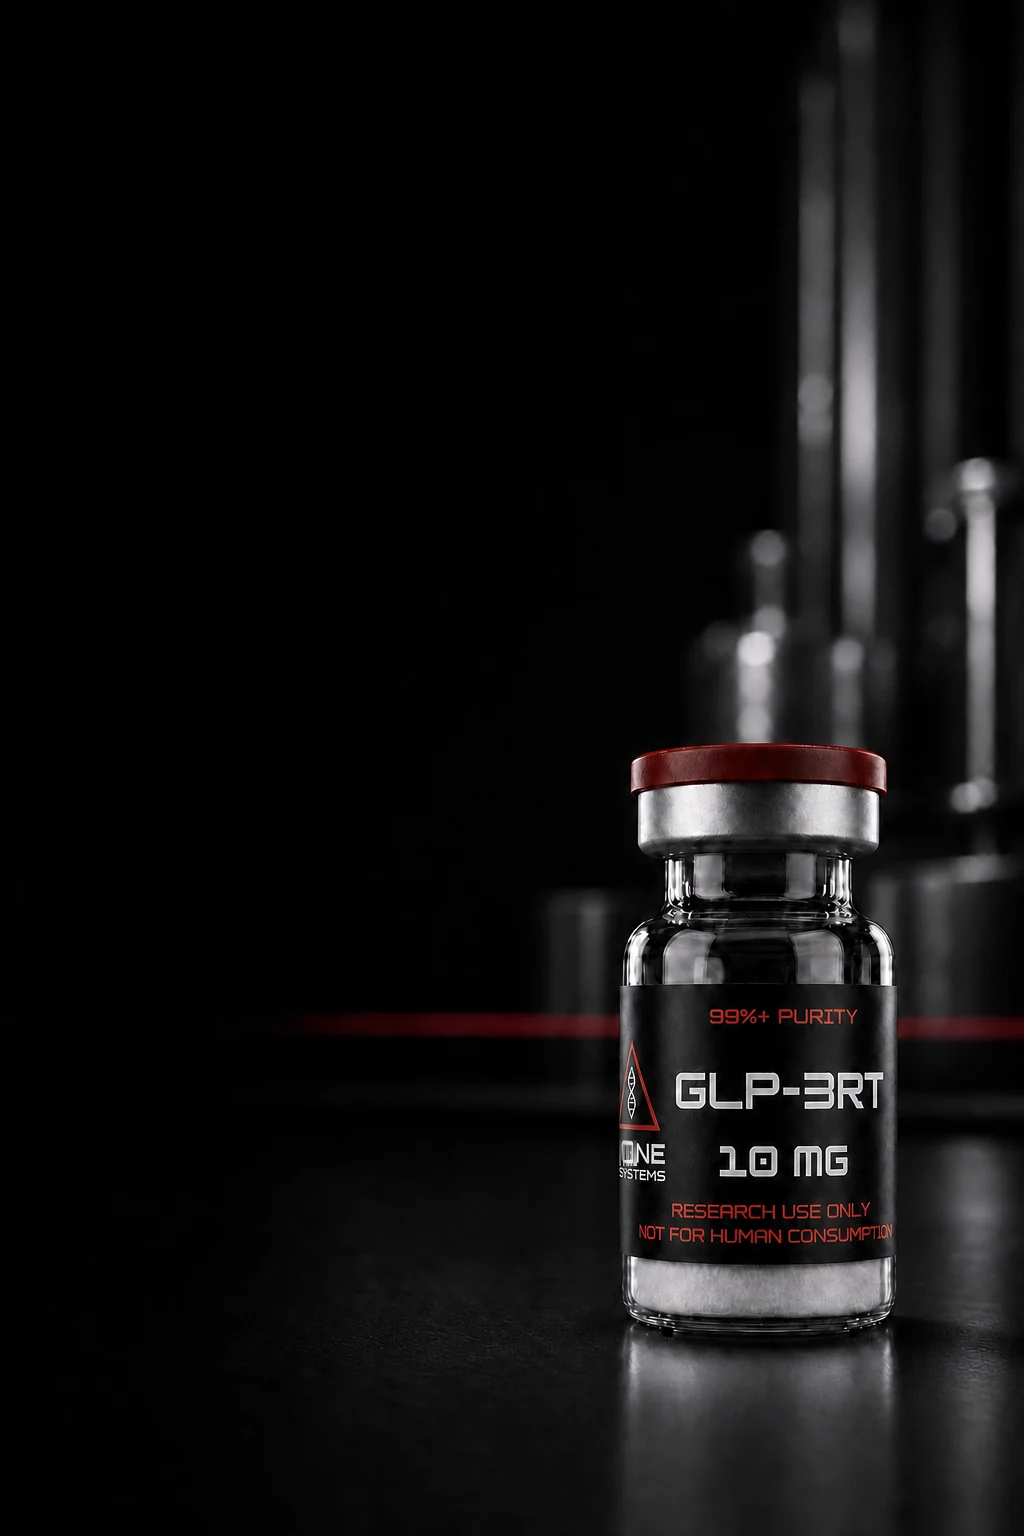
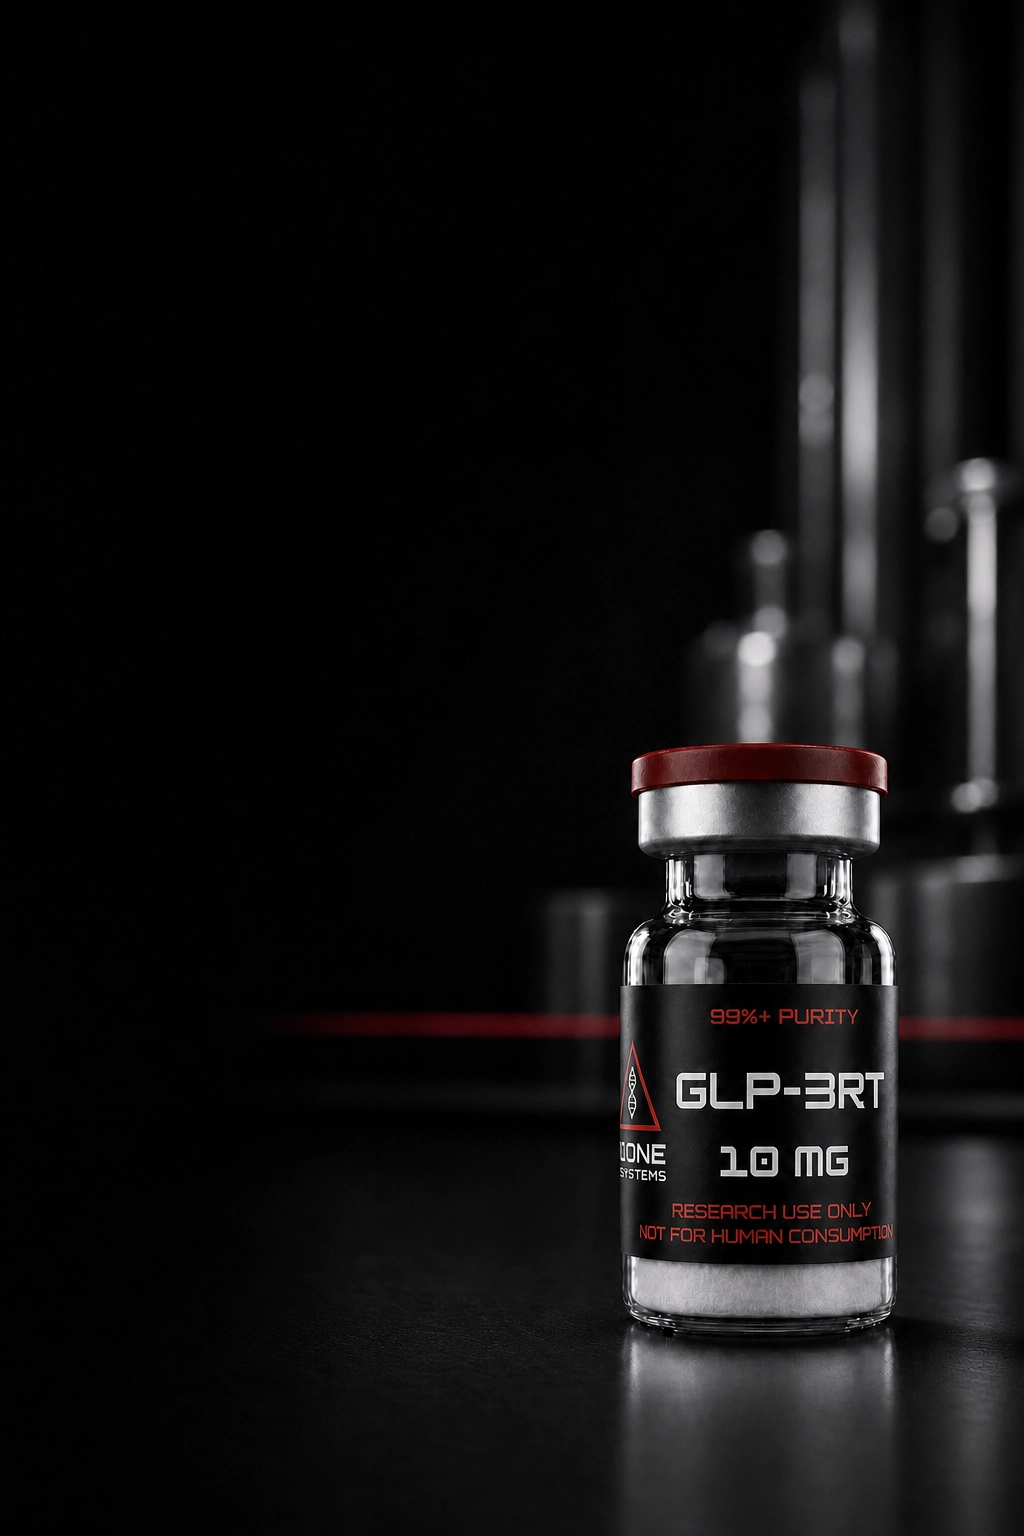
Use dedicated Lab Noir mobile hero

diff --git a/site_1.jsx b/site_1.jsx
@@ -1296,13 +1296,13 @@ function Hero({ statsActive = true }) {
         position: "absolute",
         inset: 0,
         backgroundColor: "#090a0c",
-        backgroundImage: "url('/hero-lab-noir.webp')",
-        // Mobile keeps the selected artwork intact but pulls it farther back,
-        // placing the vial below the primary copy instead of behind the CTAs.
-        backgroundSize: isMobile ? "auto 45%" : "cover",
-        backgroundPosition: isMobile ? "right 95%" : "center top",
+        backgroundImage: `url('${isMobile ? "/hero-lab-noir-mobile.webp" : "/hero-lab-noir.webp"}')`,
+        // Mobile uses its portrait composition, shifted right into the open
+        // column beside the proof points while the desktop crop stays intact.
+        backgroundSize: isMobile ? "auto 90%" : "cover",
+        backgroundPosition: isMobile ? "calc(100% + 60px) calc(50% - 70px)" : "center top",
         backgroundRepeat: "no-repeat",
-        opacity: isMobile ? 0.62 : 0.78,
+        opacity: isMobile ? 0.66 : 0.78,
         pointerEvents: "none",
         transformOrigin: isMobile ? "center center" : "center top",
         animation: isMobile ? "none" : "heroZoom 24s ease-in-out infinite alternate",
